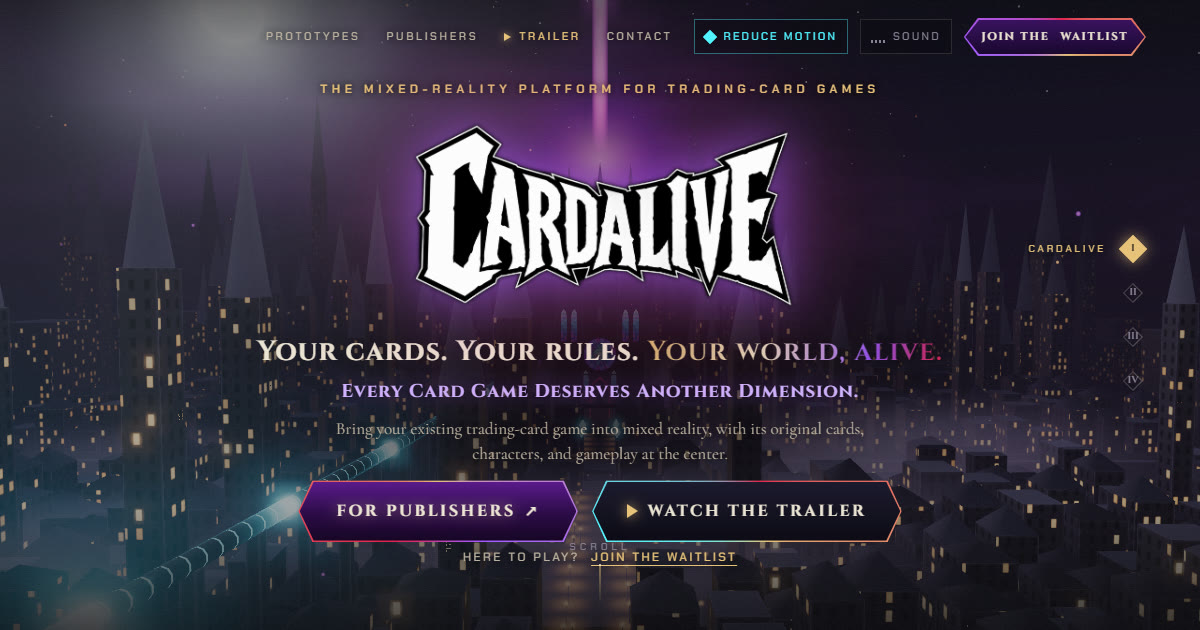
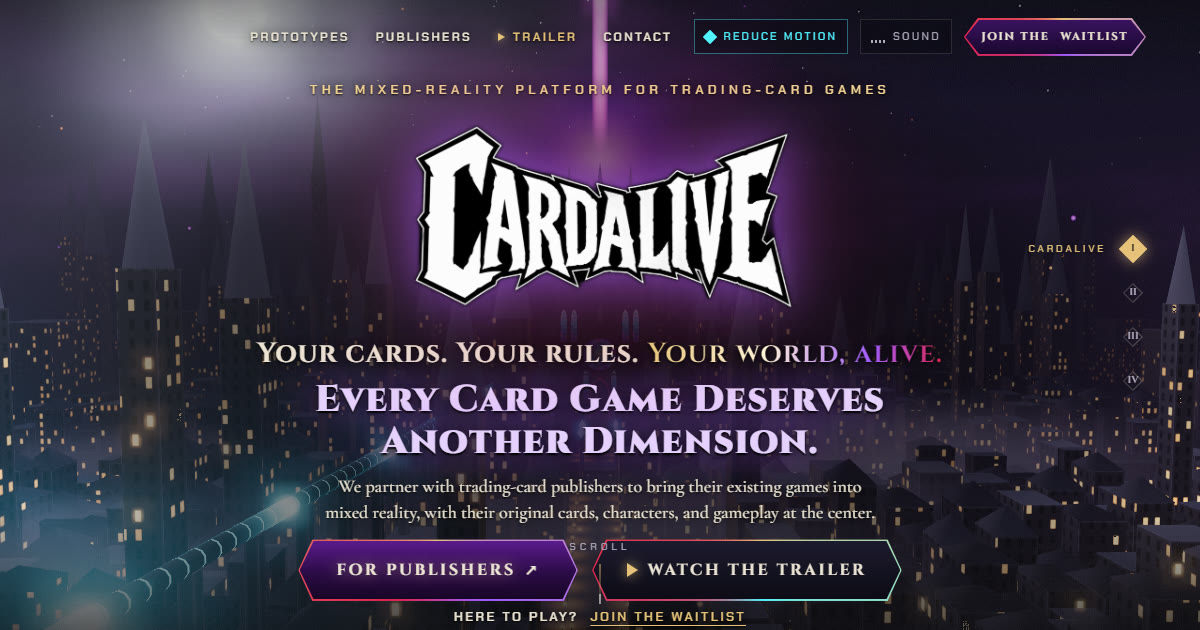
Readability pass and partnership positioning
Brighter text tiers with a dark halo over the city, darker scrims, body
copy at weight 500. "Every Card Game Deserves Another Dimension." is now
the biggest line after the logo on both pages. Copy reframed around
partnering with TCG publishers, with a new "Partners, not competitors."
section on /publishers/.

diff --git a/assets/css/style.css b/assets/css/style.css
@@ -11,8 +11,8 @@
   color-scheme: dark;
   --void:        #07060b;
   --bone:        #ece4d4;
-  --bone-dim:    #bdb3a2;
-  --ash:         #8a8295;
+  --bone-dim:    #ddd4c5;
+  --ash:         #b0a8bc;
   --violet:      #a35bff;
   --violet-deep: #3b1260;
   --crimson:     #e0244f;
@@ -25,6 +25,9 @@
   --display: 'Cinzel', 'Times New Roman', serif;
   --lore:    'Cormorant Garamond', Georgia, serif;
   --sys:     'Chakra Petch', 'Segoe UI', system-ui, sans-serif;
+
+  /* dark halo that keeps light text readable over the bright city */
+  --ink: 0 1px 2px rgba(0, 0, 0, 0.95), 0 0 12px rgba(0, 0, 0, 0.9), 0 0 30px rgba(0, 0, 0, 0.65);
 
   --gut: clamp(16px, 4.5vw, 72px);
   --rail: 96px;
@@ -221,8 +224,8 @@ body[data-scene="hero"] .nav__brand { opacity: 0; pointer-events: none; }
    Type
    --------------------------------------------------------------- */
 .eyebrow, .rune-label {
-  font-family: var(--sys); font-weight: 600; font-size: 12px; letter-spacing: 0.38em; text-transform: uppercase;
-  color: var(--gold); text-shadow: 0 0 6px #000, 0 0 16px rgba(0, 0, 0, 0.9);
+  font-family: var(--sys); font-weight: 600; font-size: 13px; letter-spacing: 0.34em; text-transform: uppercase;
+  color: #f3d697; text-shadow: var(--ink);
 }
 .rune-label { display: inline-flex; align-items: center; gap: 14px; margin-bottom: 18px; }
 .rune-label::before { content: ''; width: 34px; height: 1px; background: linear-gradient(90deg, transparent, var(--gold)); }
@@ -232,11 +235,12 @@ body[data-scene="hero"] .nav__brand { opacity: 0; pointer-events: none; }
 .h2 {
   font-family: var(--display); font-weight: 900; line-height: 1.02; letter-spacing: 0.01em;
   font-size: clamp(34px, 4.8vw, 72px); color: var(--bone);
-  text-shadow: 0 0 40px rgba(163, 91, 255, 0.35), 0 2px 0 rgba(0, 0, 0, 0.6);
+  text-shadow: 0 2px 2px rgba(0, 0, 0, 0.9), 0 0 18px rgba(0, 0, 0, 0.85), 0 0 44px rgba(163, 91, 255, 0.35);
   margin-bottom: 20px;
 }
 .h2--xl { font-size: clamp(44px, 7.4vw, 116px); }
-.lede { font-size: clamp(18px, 1.45vw, 22px); color: var(--bone-dim); max-width: 32em; text-shadow: 0 1px 10px rgba(0, 0, 0, 0.9); }
+.h2, .lede, .hero__sub, .hero__lede, .demos__pub, .finale__vision span { text-wrap: balance; }
+.lede { font-size: clamp(19px, 1.5vw, 23px); font-weight: 500; line-height: 1.5; color: var(--bone); max-width: 32em; text-shadow: var(--ink); }
 .lede b, .lede em { color: var(--bone); font-weight: 600; }
 .lede a { color: var(--gold); text-decoration-thickness: 1px; text-underline-offset: 0.2em; }
 q { quotes: '\201C' '\201D'; font-style: italic; color: var(--bone); }
@@ -301,22 +305,23 @@ q { quotes: '\201C' '\201D'; font-style: italic; color: var(--bone); }
    I. Hero
    --------------------------------------------------------------- */
 .scene--hero { justify-content: center; text-align: center; padding-left: var(--gut); padding-right: var(--gut); }
-.scene--hero::before { content: ''; position: absolute; inset: 0; z-index: -1; pointer-events: none; background: radial-gradient(50% 42% at 50% 62%, rgba(7, 6, 11, 0.7), transparent 75%); }
+.scene--hero::before { content: ''; position: absolute; inset: 0; z-index: -1; pointer-events: none; background: radial-gradient(60% 58% at 50% 58%, rgba(7, 6, 11, 0.82), rgba(7, 6, 11, 0.45) 60%, transparent 88%); }
 .hero { display: flex; flex-direction: column; align-items: center; gap: clamp(14px, 2.4vh, 26px); max-width: 980px; }
 .hero__logo { line-height: 0; }
 .hero__logo img {
-  width: clamp(220px, min(42vw, 44vh), 560px); height: auto;
+  width: clamp(200px, min(36vw, 36vh), 480px); height: auto;
   filter: drop-shadow(0 0 2px #000) drop-shadow(0 0 28px rgba(163, 91, 255, 0.75)) drop-shadow(0 0 70px rgba(224, 36, 79, 0.35));
   animation: breathe 5s ease-in-out infinite;
 }
 @keyframes breathe { 50% { filter: drop-shadow(0 0 2px #000) drop-shadow(0 0 38px rgba(163, 91, 255, 0.95)) drop-shadow(0 0 90px rgba(224, 36, 79, 0.5)); } }
 .scene--hero .hero__logo.fx { transform: scale(1.08); filter: blur(16px) brightness(2.5); }
 .scene--hero.is-active .hero__logo.fx { transform: none; filter: none; transition-duration: 1.6s; }
-.hero__title { font-family: var(--display); font-weight: 700; font-size: clamp(21px, 2.3vw, 34px); line-height: 1.2; letter-spacing: 0.04em; text-shadow: 0 0 30px rgba(0, 0, 0, 0.9); }
-.hero__title em { font-style: normal; background: linear-gradient(100deg, var(--gold), #fff3d6 40%, var(--violet) 75%, var(--crimson)); -webkit-background-clip: text; background-clip: text; color: transparent; }
+.hero__title { font-family: var(--display); font-weight: 700; font-size: clamp(21px, 2.3vw, 34px); line-height: 1.2; letter-spacing: 0.04em; text-shadow: var(--ink); }
+.hero__title em { font-style: normal; text-shadow: none; filter: drop-shadow(0 1px 2px #000) drop-shadow(0 0 12px rgba(0, 0, 0, 0.8)); background: linear-gradient(100deg, var(--gold), #fff3d6 40%, var(--violet) 75%, var(--crimson)); -webkit-background-clip: text; background-clip: text; color: transparent; }
 .hero__title em .w > span { background: inherit; -webkit-background-clip: text; background-clip: text; }
-.hero__sub { font-family: var(--display); font-weight: 700; font-size: clamp(16px, 1.55vw, 22px); letter-spacing: 0.05em; color: #cfb2ff; text-shadow: 0 0 18px rgba(163, 91, 255, 0.55), 0 0 6px #000; }
-.hero__lede { max-width: 34em; font-size: clamp(17px, 1.35vw, 21px); line-height: 1.45; color: var(--bone-dim); text-shadow: 0 1px 10px rgba(0, 0, 0, 0.95); }
+/* The signature line: the biggest words after the logo */
+.hero__sub { font-family: var(--display); font-weight: 900; font-size: clamp(24px, 3.1vw, 48px); line-height: 1.12; letter-spacing: 0.03em; color: #e6d2ff; text-shadow: 0 2px 2px #000, 0 0 16px rgba(0, 0, 0, 0.9), 0 0 34px rgba(163, 91, 255, 0.75), 0 0 80px rgba(163, 91, 255, 0.4); }
+.hero__lede { max-width: 34em; font-size: clamp(18px, 1.45vw, 22px); font-weight: 500; line-height: 1.45; color: var(--bone); text-shadow: var(--ink); }
 .hero__ctas { display: flex; flex-wrap: wrap; justify-content: center; gap: 14px; margin-top: 4px; }
 .hero__players { margin-top: -4px; }
 
@@ -371,7 +376,7 @@ q { quotes: '\201C' '\201D'; font-style: italic; color: var(--bone); }
    II. Prototypes — two capability demos, each opens in a dialog
    --------------------------------------------------------------- */
 .scene--demos { justify-content: center; text-align: center; }
-.scene--demos::before { content: ''; position: absolute; inset: 0; z-index: -1; pointer-events: none; background: radial-gradient(60% 55% at 50% 52%, rgba(7, 6, 11, 0.78), rgba(7, 6, 11, 0.25) 85%); }
+.scene--demos::before { content: ''; position: absolute; inset: 0; z-index: -1; pointer-events: none; background: radial-gradient(60% 55% at 50% 52%, rgba(7, 6, 11, 0.86), rgba(7, 6, 11, 0.4) 85%); }
 .demos { display: flex; flex-direction: column; align-items: center; width: min(1080px, 100%); margin-inline: auto; }
 .demos .lede { max-width: 42em; }
 .demos__grid { display: grid; grid-template-columns: repeat(2, minmax(0, 1fr)); gap: clamp(16px, 2vw, 28px); width: 100%; margin-top: clamp(20px, 3.4vh, 36px); text-align: left; }
@@ -398,8 +403,8 @@ q { quotes: '\201C' '\201D'; font-style: italic; color: var(--bone); }
 .demo__body { display: flex; flex-direction: column; gap: 6px; padding: 16px 20px 20px; }
 .demo__title { font-family: var(--display); font-weight: 700; font-size: clamp(16px, 1.3vw, 19px); letter-spacing: 0.04em; line-height: 1.25; }
 .demo__len { font-family: var(--sys); font-size: 11px; font-weight: 600; letter-spacing: 0.22em; text-transform: uppercase; color: var(--gold); }
-.demo__text { font-size: 17px; line-height: 1.4; color: var(--bone-dim); }
-.demos__pub, .hero__players { font-family: var(--sys); font-size: 12px; letter-spacing: 0.2em; text-transform: uppercase; color: var(--bone-dim); text-shadow: 0 0 8px #000; }
+.demo__text { font-size: 18px; font-weight: 500; line-height: 1.4; color: var(--bone); }
+.demos__pub, .hero__players { font-family: var(--sys); font-weight: 600; font-size: 13px; letter-spacing: 0.18em; text-transform: uppercase; color: var(--bone); text-shadow: var(--ink); }
 .demos__pub { margin-top: clamp(18px, 3vh, 28px); }
 .demos__pub a, .hero__players a { color: var(--gold); text-decoration-thickness: 1px; text-underline-offset: 0.3em; margin-left: 6px; white-space: nowrap; }
 .demos__pub a:hover, .hero__players a:hover { color: #fff3d6; }
@@ -407,7 +412,7 @@ q { quotes: '\201C' '\201D'; font-style: italic; color: var(--bone); }
    VI. Finale
    --------------------------------------------------------------- */
 .scene--finale { justify-content: center; text-align: center; padding-left: var(--gut); }
-.scene--finale::before { content: ''; position: absolute; inset: 0; z-index: -1; pointer-events: none; background: radial-gradient(50% 50% at 50% 50%, rgba(7, 6, 11, 0.7), transparent 80%); }
+.scene--finale::before { content: ''; position: absolute; inset: 0; z-index: -1; pointer-events: none; background: radial-gradient(56% 56% at 50% 50%, rgba(7, 6, 11, 0.84), rgba(7, 6, 11, 0.4) 65%, transparent 88%); }
 .finale { display: flex; flex-direction: column; align-items: center; max-width: 1000px; }
 .finale .h2 { margin-bottom: 8px; }
 .lantern {
@@ -434,16 +439,16 @@ q { quotes: '\201C' '\201D'; font-style: italic; color: var(--bone); }
 .lantern.is-sent .lantern__flame { transform: translateX(-50%) scale(1.3); filter: drop-shadow(0 0 18px rgba(255, 170, 80, 0.9)); }
 @keyframes flicker { 0% { transform: translateX(-50%) scale(1, 1) skewX(-2deg); } 50% { transform: translateX(-52%) scale(0.94, 1.06) skewX(3deg); } 100% { transform: translateX(-48%) scale(1.04, 0.96) skewX(-1deg); } }
 .lantern__label { font-family: var(--display); font-weight: 900; font-size: clamp(22px, 2.5vw, 30px); letter-spacing: 0.14em; text-transform: uppercase; color: var(--bone); text-shadow: 0 0 20px rgba(255, 138, 61, 0.6); }
-.lantern__sub { font-family: var(--sys); font-size: 11px; letter-spacing: 0.24em; text-transform: uppercase; color: var(--ash); }
-.finale__vision { font-family: var(--display); font-weight: 700; font-size: clamp(15px, 1.4vw, 19px); letter-spacing: 0.12em; text-transform: uppercase; color: var(--bone); text-shadow: 0 0 10px #000; }
-.finale__vision span { display: block; margin-top: 6px; font-family: var(--lore); font-weight: 400; font-style: italic; font-size: clamp(17px, 1.4vw, 20px); letter-spacing: 0; text-transform: none; color: var(--bone-dim); }
-.fine { position: absolute; left: var(--gut); right: var(--gut); bottom: 18px; text-align: center; font-size: 13px; color: #6f687a; }
+.lantern__sub { font-family: var(--sys); font-weight: 600; font-size: 12px; letter-spacing: 0.22em; text-transform: uppercase; color: var(--bone-dim); }
+.finale__vision { font-family: var(--display); font-weight: 700; font-size: clamp(15px, 1.4vw, 19px); letter-spacing: 0.12em; text-transform: uppercase; color: var(--bone); text-shadow: var(--ink); }
+.finale__vision span { display: block; margin-top: 6px; font-family: var(--lore); font-weight: 500; font-style: italic; font-size: clamp(18px, 1.5vw, 22px); letter-spacing: 0; text-transform: none; color: var(--bone); }
+.fine { position: absolute; left: var(--gut); right: var(--gut); bottom: 18px; text-align: center; font-size: 14px; color: #b3abbf; text-shadow: var(--ink); }
 
 /* ---------------------------------------------------------------
    VII. Contact
    --------------------------------------------------------------- */
 .contact { position: relative; width: min(640px, 100%); }
-.contact::before { content: ''; position: absolute; inset: -25% -30%; z-index: -1; pointer-events: none; background: radial-gradient(closest-side, rgba(7, 6, 11, 0.75), transparent); }
+.contact::before { content: ''; position: absolute; inset: -25% -30%; z-index: -1; pointer-events: none; background: radial-gradient(closest-side, rgba(7, 6, 11, 0.88), rgba(7, 6, 11, 0.5) 70%, transparent); }
 .contact .h2 { margin-bottom: 14px; }
 .mail { margin: 28px 0 0; max-width: 560px; }
 .mail .raven { margin-top: 0; padding-left: 10px; background: linear-gradient(90deg, rgba(36, 8, 18, 0.75), rgba(10, 6, 16, 0.65)); }
@@ -469,7 +474,7 @@ q { quotes: '\201C' '\201D'; font-style: italic; color: var(--bone); }
   flex: 1; min-width: 0; padding: 15px 16px; border: 0; outline: none; background: transparent;
   font-family: var(--sys); font-weight: 500; font-size: 16px; letter-spacing: 0.04em; color: var(--bone);
 }
-.raven__input::placeholder { color: #7d7588; }
+.raven__input::placeholder { color: #a29aae; }
 .raven__send {
   flex: none; padding: 0 20px; white-space: nowrap;
   font-family: var(--display); font-weight: 900; font-size: 13px; letter-spacing: 0.16em; text-transform: uppercase;
@@ -480,7 +485,7 @@ q { quotes: '\201C' '\201D'; font-style: italic; color: var(--bone); }
 .raven__send:focus-visible { outline: 2px solid #fff; outline-offset: -4px; }
 .is-busy .raven__send { cursor: progress; filter: saturate(0.4) brightness(0.8); }
 .is-sent .raven { display: none; }
-.raven__status { min-height: 1.5em; margin-top: 10px; font-family: var(--sys); font-size: 12px; letter-spacing: 0.1em; color: var(--bone-dim); text-shadow: 0 0 8px #000; }
+.raven__status { min-height: 1.5em; margin-top: 10px; font-family: var(--sys); font-size: 13px; letter-spacing: 0.08em; color: var(--bone); text-shadow: var(--ink); }
 .is-sent .raven__status { margin-top: 4px; font-size: 14px; letter-spacing: 0.04em; color: var(--gold); }
 .is-sent .lantern__sub { display: none; }
 .raven__status.is-err { color: #ff8da3; }
@@ -489,10 +494,10 @@ q { quotes: '\201C' '\201D'; font-style: italic; color: var(--bone); }
 .sr-only { position: absolute; width: 1px; height: 1px; margin: -1px; overflow: hidden; clip: rect(0 0 0 0); white-space: nowrap; }
 .finale__vision a { color: var(--gold); text-decoration-thickness: 1px; text-underline-offset: 0.2em; margin-left: 4px; white-space: nowrap; }
 .nav__link {
-  font-family: var(--sys); font-size: 11px; letter-spacing: 0.24em; text-transform: uppercase; text-decoration: none; color: var(--bone-dim);
-  padding: 8px 4px; margin-right: 6px; transition: color 0.2s; text-shadow: 0 0 8px #000;
+  font-family: var(--sys); font-weight: 600; font-size: 12px; letter-spacing: 0.2em; text-transform: uppercase; text-decoration: none; color: var(--bone);
+  padding: 8px 4px; margin-right: 6px; transition: color 0.2s; text-shadow: var(--ink);
 }
-.nav__link:hover { color: var(--bone); }
+.nav__link:hover { color: #fff3d6; }
 body[data-scene="prototypes"] .nav__link[data-goto="1"], body[data-scene="contact"] .nav__link[data-goto="3"] { color: var(--gold); }
 .nav__link--trailer { display: inline-flex; align-items: center; gap: 8px; color: var(--gold); }
 .nav__link--trailer:hover { color: #fff3d6; }

diff --git a/assets/css/publishers.css b/assets/css/publishers.css
@@ -31,10 +31,12 @@ main, .p-foot { position: relative; z-index: 5; }
 .p-title {
   font-family: var(--display); font-weight: 900; line-height: 1.04; letter-spacing: 0.01em;
   font-size: clamp(40px, 6.6vw, 104px); color: var(--bone);
-  text-shadow: 0 0 40px rgba(163, 91, 255, 0.35), 0 2px 0 rgba(0, 0, 0, 0.6);
+  text-shadow: 0 2px 2px rgba(0, 0, 0, 0.9), 0 0 18px rgba(0, 0, 0, 0.85), 0 0 44px rgba(163, 91, 255, 0.35);
 }
 .p-title em { font-style: normal; background: linear-gradient(100deg, var(--gold), #fff3d6 40%, var(--violet) 80%); -webkit-background-clip: text; background-clip: text; color: transparent; text-shadow: none; filter: drop-shadow(0 0 22px rgba(163, 91, 255, 0.45)); }
-.p-lede { max-width: 40em; font-size: clamp(18px, 1.5vw, 23px); line-height: 1.5; color: var(--bone-dim); text-shadow: 0 1px 10px rgba(0, 0, 0, 0.9); }
+.p-lede { max-width: 40em; font-size: clamp(19px, 1.55vw, 24px); font-weight: 500; line-height: 1.5; color: var(--bone); text-shadow: var(--ink); }
+.p-hero .hero__sub { margin-top: -4px; }
+.p-title, .p-lede, .p-where p { text-wrap: balance; }
 .p-ctas { display: flex; flex-wrap: wrap; justify-content: center; gap: 14px; margin-top: 8px; }
 
 /* Sections */
@@ -53,11 +55,11 @@ button.vframe:hover img, button.vframe:focus-visible img { transform: scale(1.04
 button.vframe:hover .demo__play, button.vframe:focus-visible .demo__play { transform: scale(1.1); box-shadow: 0 0 36px rgba(231, 194, 122, 0.7); }
 .p-demo__body { display: flex; flex-direction: column; gap: 6px; padding: 18px 22px 22px; }
 
-.p-caps { list-style: none; display: grid; grid-template-columns: repeat(4, minmax(0, 1fr)); gap: 16px; margin-top: 28px; }
-.p-cap { padding: 22px 20px; border: 1px solid rgba(231, 194, 122, 0.18); background: rgba(10, 7, 16, 0.7); display: flex; flex-direction: column; gap: 10px; }
+.p-caps { list-style: none; display: grid; grid-template-columns: repeat(3, minmax(0, 1fr)); gap: 16px; margin-top: 28px; }
+.p-cap { padding: 22px 20px; border: 1px solid rgba(231, 194, 122, 0.24); background: rgba(10, 7, 16, 0.86); display: flex; flex-direction: column; gap: 10px; }
 .p-cap h3 { font-family: var(--display); font-weight: 700; font-size: 17px; letter-spacing: 0.03em; line-height: 1.25; color: var(--bone); }
-.p-cap p { font-size: 17px; line-height: 1.45; color: var(--bone-dim); flex: 1; }
-.p-cap__src { font-family: var(--sys); font-size: 10px; font-weight: 600; letter-spacing: 0.24em; text-transform: uppercase; color: var(--gold); }
+.p-cap p { font-size: 18px; font-weight: 500; line-height: 1.45; color: var(--bone); flex: 1; }
+.p-cap__src { font-family: var(--sys); font-size: 11px; font-weight: 600; letter-spacing: 0.24em; text-transform: uppercase; color: var(--gold); }
 
 .p-where { margin-top: 28px; }
 .p-where h3 { font-family: var(--sys); font-size: 12px; font-weight: 600; letter-spacing: 0.3em; text-transform: uppercase; color: var(--gold); margin-bottom: 10px; }
@@ -68,14 +70,14 @@ button.vframe:hover .demo__play, button.vframe:focus-visible .demo__play { trans
 .pilot__fields { display: grid; grid-template-columns: 1fr 1fr; gap: 18px 20px; }
 .pilot__field { display: flex; flex-direction: column; gap: 8px; }
 .pilot__field--wide { grid-column: 1 / -1; }
-.pilot__field > span { font-family: var(--sys); font-size: 11px; font-weight: 600; letter-spacing: 0.22em; text-transform: uppercase; color: var(--bone-dim); }
+.pilot__field > span { font-family: var(--sys); font-size: 12px; font-weight: 600; letter-spacing: 0.2em; text-transform: uppercase; color: var(--bone); }
 .pilot__field b { color: var(--gold); font-weight: 600; }
 .pilot__input {
   width: 100%; padding: 13px 14px; border: 1px solid rgba(231, 194, 122, 0.35); background: rgba(7, 6, 11, 0.72); outline: none;
   font-family: var(--sys); font-weight: 500; font-size: 16px; letter-spacing: 0.03em; color: var(--bone);
   transition: border-color 0.25s, box-shadow 0.25s; resize: vertical;
 }
-.pilot__input::placeholder { color: #7d7588; }
+.pilot__input::placeholder { color: #a29aae; }
 .pilot__input:focus { border-color: var(--gold); box-shadow: 0 0 24px rgba(231, 194, 122, 0.2); }
 .pilot__send { justify-self: start; }
 .pilot__done { display: none; font-family: var(--display); font-weight: 900; font-size: clamp(24px, 2.6vw, 34px); color: var(--bone); }
@@ -85,14 +87,14 @@ button.vframe:hover .demo__play, button.vframe:focus-visible .demo__play { trans
 
 /* Footer */
 .p-foot { padding: clamp(60px, 10vh, 120px) var(--gut) 28px; text-align: center; }
-.p-foot__players { font-family: var(--sys); font-size: 12px; letter-spacing: 0.2em; text-transform: uppercase; color: var(--bone-dim); margin-bottom: 18px; }
+.p-foot__players { font-family: var(--sys); font-weight: 600; font-size: 13px; letter-spacing: 0.18em; text-transform: uppercase; color: var(--bone); margin-bottom: 18px; }
 .p-foot__players a { color: var(--gold); text-underline-offset: 0.3em; margin-left: 6px; }
 .p-foot .fine { position: static; }
 .p-foot .fine a { color: var(--bone-dim); }
 
 @media (max-width: 1000px) {
   .nav__link--wide { display: none; }
-  .p-caps { grid-template-columns: repeat(2, minmax(0, 1fr)); }
+  .p-caps { grid-template-columns: 1fr; }
 }
 @media (max-width: 760px) {
   .p-demos { grid-template-columns: 1fr; }
@@ -100,7 +102,6 @@ button.vframe:hover .demo__play, button.vframe:focus-visible .demo__play { trans
 @media (max-width: 640px) {
   .p-hero { padding-top: 100px; min-height: auto; }
   .p-ctas .btn { font-size: 13px; padding: 1.05em 1.6em; }
-  .p-caps { grid-template-columns: 1fr; }
   .pilot__fields { grid-template-columns: 1fr; }
   .pilot__send { justify-self: stretch; }
 }

diff --git a/index.html b/index.html
@@ -4,12 +4,12 @@
   <meta charset="UTF-8" />
   <meta name="viewport" content="width=device-width, initial-scale=1.0" />
   <title>CardAlive — The mixed-reality platform for trading-card games</title>
-  <meta name="description" content="CardAlive is building a mixed-reality platform for trading-card games on Meta Quest 3, with each game's own cards, characters and gameplay at the center. Publishers can explore a pilot. Players can join the waitlist." />
+  <meta name="description" content="CardAlive partners with trading-card publishers to bring their games into mixed reality on Meta Quest 3, with each game's own cards, characters and gameplay at the center. We build the technology; we don't compete with your game. Publishers can explore a pilot. Players can join the waitlist." />
 
   <meta property="og:type" content="website" />
   <meta property="og:url" content="https://cardalive.xyz/" />
   <meta property="og:title" content="CardAlive — Your cards. Your rules. Your world, alive." />
-  <meta property="og:description" content="The mixed-reality platform for trading-card games. Every card game deserves another dimension." />
+  <meta property="og:description" content="Every Card Game Deserves Another Dimension. CardAlive partners with trading-card publishers to bring their games into mixed reality." />
   <meta property="og:image" content="https://cardalive.xyz/assets/img/og.jpg" />
   <meta name="twitter:card" content="summary_large_image" />
   <meta name="theme-color" content="#07060b" />
@@ -86,7 +86,7 @@
         </h1>
         <p class="hero__title" data-split>Your cards. Your rules. <em>Your world, alive.</em></p>
         <p class="hero__sub fx" style="--d:4">Every Card Game Deserves Another Dimension.</p>
-        <p class="hero__lede fx" style="--d:5">Bring your existing trading-card game into mixed reality, with its original cards, characters, and gameplay at the center.</p>
+        <p class="hero__lede fx" style="--d:5">We partner with trading-card publishers to bring their existing games into mixed reality, with their original cards, characters, and gameplay at the center.</p>
         <div class="hero__ctas fx" style="--d:6">
           <a class="btn btn--blaze" href="./publishers/">
             <span>For Publishers</span><span class="btn__arrow" aria-hidden="true">&nearr;</span>
@@ -116,7 +116,7 @@
       <div class="demos">
         <p class="rune-label fx">II &middot; Prototypes</p>
         <h2 class="h2" data-split>See What CardAlive Can Do</h2>
-        <p class="lede fx" style="--d:3">Our original prototypes demonstrate the technology we're developing for existing trading-card games. These are capability demonstrations, not a separate TCG.</p>
+        <p class="lede fx" style="--d:3">Our original prototypes demonstrate the technology we're developing for existing trading-card games. These are capability demonstrations, not a separate TCG: we build the technology, our partners bring the games.</p>
         <div class="demos__grid">
           <button class="demo fx" style="--d:4" type="button" data-reel="proto-01" aria-label="Play Prototype 01, AR Card Battles, 1 minute 5 seconds">
             <span class="demo__thumb">
@@ -141,7 +141,7 @@
             </span>
           </button>
         </div>
-        <p class="demos__pub fx" style="--d:6">Publishing a card game? <a href="./publishers/#pilot">Explore a pilot</a></p>
+        <p class="demos__pub fx" style="--d:6">Publishing a card game? Let's build it together. <a href="./publishers/#pilot">Explore a pilot</a></p>
       </div>
     </section>
 
@@ -164,7 +164,7 @@
           <input class="raven__honey" type="text" name="_honey" tabindex="-1" autocomplete="off" aria-hidden="true" />
           <p class="raven__status" role="status" data-done="We will write to {email} when early access opens."></p>
         </form>
-        <p class="finale__vision fx" style="--d:5">Different games. Same magic. <span>Publishers: bring your game, and we will bring it to life. <a href="./publishers/">Explore a pilot</a></span></p>
+        <p class="finale__vision fx" style="--d:5">Different games. Same magic. <span>We don't make a rival card game. We partner with publishers to bring theirs to life. <a href="./publishers/">Explore a pilot</a></span></p>
       </div>
     </section>
 
@@ -173,7 +173,7 @@
       <div class="contact">
         <p class="rune-label fx">IV &middot; Send a Raven</p>
         <h2 class="h2 h2--xl" data-split>Get in touch.</h2>
-        <p class="lede fx" style="--d:4">Players, press and partners: leave your email and we will write back. Publishers can also <a href="./publishers/#pilot">explore a pilot</a>.</p>
+        <p class="lede fx" style="--d:4">Players, press and publishers: leave your email and we will write back. Publishers looking to partner can also <a href="./publishers/#pilot">explore a pilot</a>.</p>
         <form class="mail fx" style="--d:5" action="https://formsubmit.co/cardalive@protonmail.com" method="post" novalidate
               data-raven data-subject="CardAlive contact">
           <label class="sr-only" for="raven-email">Your email</label>

diff --git a/publishers/index.html b/publishers/index.html
@@ -4,7 +4,7 @@
   <meta charset="UTF-8" />
   <meta name="viewport" content="width=device-width, initial-scale=1.0" />
   <title>For Publishers — CardAlive</title>
-  <meta name="description" content="CardAlive is developing a mixed-reality platform that lets trading-card publishers extend their existing games into interactive 3D experiences. Your cards, rules, characters and identity remain yours. Explore a pilot." />
+  <meta name="description" content="CardAlive partners with trading-card publishers to extend their existing games into interactive 3D mixed-reality experiences. We don't compete with your game: your cards, rules, characters and identity remain yours. Explore a pilot." />
   <link rel="canonical" href="https://cardalive.xyz/publishers/" />
 
   <meta property="og:type" content="website" />
@@ -42,13 +42,34 @@
 
   <main>
     <section class="p-hero" aria-labelledby="p-title">
-      <p class="eyebrow">For trading-card publishers</p>
+      <p class="eyebrow">A technology partner for trading-card publishers</p>
       <h1 class="p-title" id="p-title">Your Game. <em>Our Technology.</em></h1>
+      <p class="hero__sub">Every Card Game Deserves Another Dimension.</p>
       <p class="p-lede">CardAlive is developing a mixed-reality platform that allows trading-card publishers to extend their existing games into interactive 3D experiences. Your cards, rules, characters, and identity remain yours. We build the technology layer that brings them to life.</p>
       <div class="p-ctas">
         <a class="btn btn--blaze" href="#pilot"><span>Explore a Pilot</span><span class="btn__arrow" aria-hidden="true">&rarr;</span></a>
         <a class="btn btn--ghost" href="#prototypes">See the prototypes</a>
       </div>
+    </section>
+
+    <section class="p-section" id="partners" aria-labelledby="partners-title">
+      <p class="rune-label">How we work</p>
+      <h2 class="h2" id="partners-title">Partners, not competitors.</h2>
+      <p class="lede">CardAlive isn't building a trading-card game to compete with yours. We build the mixed-reality technology and work alongside your team to extend the game you already have.</p>
+      <ul class="p-caps">
+        <li class="p-cap">
+          <h3>Your game stays yours</h3>
+          <p>Your cards, rules, characters, art and brand remain yours. We add the technology that brings them to life.</p>
+        </li>
+        <li class="p-cap">
+          <h3>Built around your game</h3>
+          <p>Mixed reality should play like your game, not ours. A pilot starts from your cards, rules and mechanics.</p>
+        </li>
+        <li class="p-cap">
+          <h3>Working together</h3>
+          <p>We shape each pilot with your team: what comes into mixed reality first, and what comes next.</p>
+        </li>
+      </ul>
     </section>
 
     <section class="p-section" id="prototypes" aria-labelledby="proto-title">
@@ -101,23 +122,18 @@
           <p>Beyond the table, a character can open into an explorable environment built around them.</p>
           <span class="p-cap__src">Prototype 02</span>
         </li>
-        <li class="p-cap">
-          <h3>Your identity stays yours</h3>
-          <p>The prototypes use our own original characters. In a pilot, your cards, rules, characters and art stay yours.</p>
-          <span class="p-cap__src">Every pilot</span>
-        </li>
       </ul>
 
       <div class="panel p-where">
         <h3>Where we are</h3>
-        <p>CardAlive is in development for Meta Quest 3. The prototypes show what the technology does today, with our own characters. It does not yet bring every existing game over in full. A pilot is how we find out what yours needs: we start with a small set of your cards, characters and mechanics, bring them into mixed reality, and decide together what comes next.</p>
+        <p>CardAlive is in development for Meta Quest 3. The prototypes show what the technology does today, with our own original characters standing in for yours. It does not yet bring every existing game over in full. A pilot is how we find out what yours needs: we start with a small set of your cards, characters and mechanics, bring them into mixed reality, and decide together what comes next.</p>
       </div>
     </section>
 
     <section class="p-section p-pilot" id="pilot" aria-labelledby="pilot-title">
       <p class="rune-label">Explore a Pilot</p>
       <h2 class="h2" id="pilot-title">Bring your game to the table.</h2>
-      <p class="lede">Tell us about your game and we will write back to set up a call.</p>
+      <p class="lede">Tell us about your game. We will write back to set up a call and shape a pilot together.</p>
 
       <form class="panel pilot" action="https://formsubmit.co/cardalive@protonmail.com" method="post" novalidate
             data-raven data-subject="CardAlive pilot inquiry">

diff --git a/README.md b/README.md
@@ -4,8 +4,14 @@ Marketing site for **CardAlive**, the mixed-reality platform for trading-card ga
 "Your cards. Your rules. Your world, alive." It has two audiences and two paths. **Publishers** go to
 `/publishers/` and can explore a pilot. **Players** join the waitlist on the home page. The two
 original prototypes (AR Card Battles and Kishi City) are presented as capability demonstrations of
-the technology, not as a separate TCG. Copy must not imply that every existing game can already be
-fully integrated.
+the technology, not as a separate TCG. The stance is partnership: CardAlive helps and partners with
+TCG publishers and does not compete with them, and the copy says so on every page. Copy must not
+imply that every existing game can already be fully integrated. "Every Card Game Deserves Another
+Dimension." is the signature line (`.hero__sub`), the largest text after the logo on both pages.
+
+Readability: light text sits on the moving city, so every text tier carries the `--ink` halo, body
+copy uses Cormorant at weight 500 in `--bone`, and each scene has a dark radial scrim behind its text.
+Keep new text on those, not on `--ash` or bare over the canvas.
 
 Live: https://cardalive.xyz (GitHub Pages, deploy from `master` / root). Plain HTML, CSS and JS,
 no build step.
